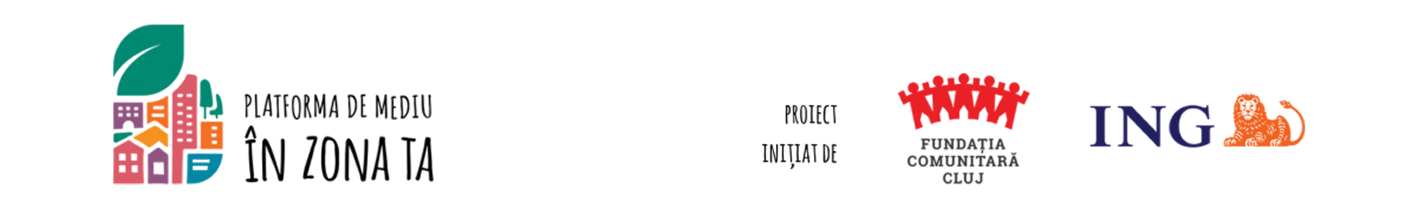
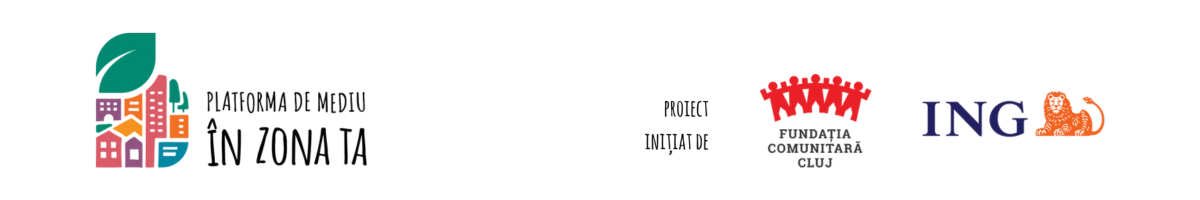
Add sponsors section to About page with image and acknowledgments

diff --git a/src/app/despre-noi/page.tsx b/src/app/despre-noi/page.tsx
@@ -72,6 +72,32 @@ export default function AboutPage() {
   return (
     <main className="bg-tertiary flex flex-col gap-24 px-6 pt-20 pb-40 2xl:px-96 2xl:pt-24 2xl:pb-52">
       <div className="flex flex-col gap-6">
+        <section>
+          <div className="mb-12">
+            <h1 className="text-heading-1 mb-2 text-center">
+              Partenerii noștri
+            </h1>
+            <h3 className="text-subheading text-center">
+              AnimAlert nu ar fi fost posibilă fără finanțarea acordată de{" "}
+              <strong>Fundația Comunitară Cluj</strong>, prin programul{" "}
+              <strong>„În ZONA TA”</strong> al{" "}
+              <strong>Platformei de Mediu</strong>, inițiativă a{" "}
+              <strong>ING România</strong> și fără sprijinul partenerilor noștri
+              dedicați.
+              <br />
+              Mulțumim celor care au contribuit pentru a crea și întreține
+              această platformă!
+            </h3>
+          </div>
+          <section>
+            <Image
+              alt="Sponsors"
+              src="/images/about-us-sponsors.png"
+              width="1420"
+              height="200"
+            />
+          </section>
+        </section>
         <section className="flex flex-col gap-16 lg:flex-row lg:items-start lg:gap-14">
           <div className="flex flex-1 flex-col gap-8">
             <div>
@@ -256,20 +282,6 @@ export default function AboutPage() {
       </section>
 
       <section>
-        <div className="mb-12">
-          <h1 className="text-heading-1 mb-2 text-center">Partenerii noștri</h1>
-          <h3 className="text-subheading text-center">
-            AnimAlert nu ar fi fost posibilă fără finanțarea acordată de{" "}
-            <strong>Fundația Comunitară Cluj</strong>, prin programul{" "}
-            <strong>„În ZONA TA”</strong> al{" "}
-            <strong>Platformei de Mediu</strong>, inițiativă a{" "}
-            <strong>ING România</strong> și fără sprijinul partenerilor noștri
-            dedicați.
-            <br />
-            Mulțumim celor care au contribuit pentru a crea și întreține această
-            platformă!
-          </h3>
-        </div>
         <div className="grid grid-cols-1 gap-6 md:grid-cols-2 xl:grid-cols-2">
           {partner_cards.map((card, i) => (
             <div
